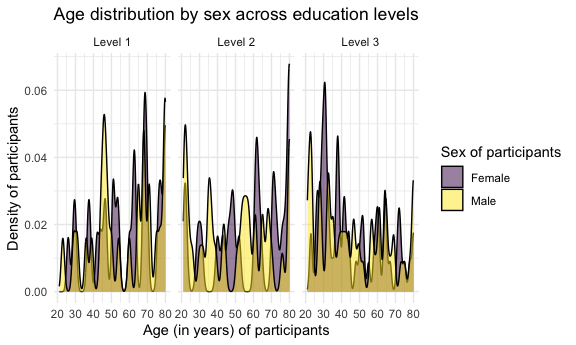
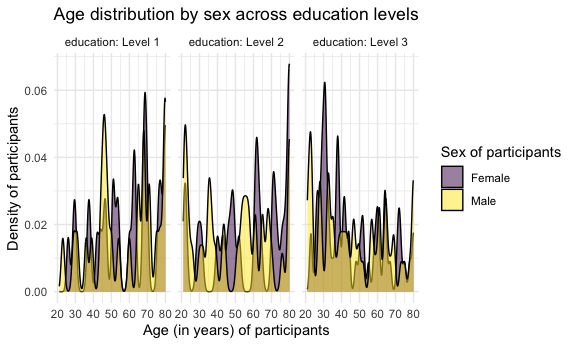
added labels for education in plots in problem 3

Changed region(s): [[0.5312, 0.087, 0.7188, 0.1449], [0.3125, 0.087, 0.5, 0.1449], [0.0938, 0.1159, 0.2812, 0.1449]]

diff --git a/p8105_hw3_dmh2228.md b/p8105_hw3_dmh2228.md
@@ -402,7 +402,7 @@ sex_education_age_plot =
     y = "Density of participants",
     fill = "Sex of participants"
   ) +
-  facet_grid(. ~ education) +
+  facet_grid(. ~ education, labeller = label_both) +
   scale_x_continuous(
     breaks = c(10, 20, 30, 40, 50, 60, 70, 80)
   )
@@ -437,7 +437,7 @@ nhanes_total_activity_plot =
   ggplot(nhanes_total_activity_data, aes(x = age, y = total_activity, color = sex)) +
   geom_point(alpha = .5) +
   geom_smooth(se = FALSE) +
-  facet_grid(. ~ education) +
+  facet_grid(. ~ education, labeller = label_both) +
   labs(
     title = "Total activity by age and sex across education levels",
     x = "Age (in years)",
@@ -474,7 +474,7 @@ nhanes_24_hour_plot =
   ggplot(nhanes_24_hour_data, aes(x = hour, y = mims_by_hour, color = sex)) +
   geom_point(alpha = .1) +
   geom_smooth(se = FALSE) +
-  facet_grid(. ~ education) +
+  facet_grid(. ~ education, labeller = label_both) +
   labs(    
     title = "24-hour activity by sex across education levels",
     x = "Hours (in a day)",
